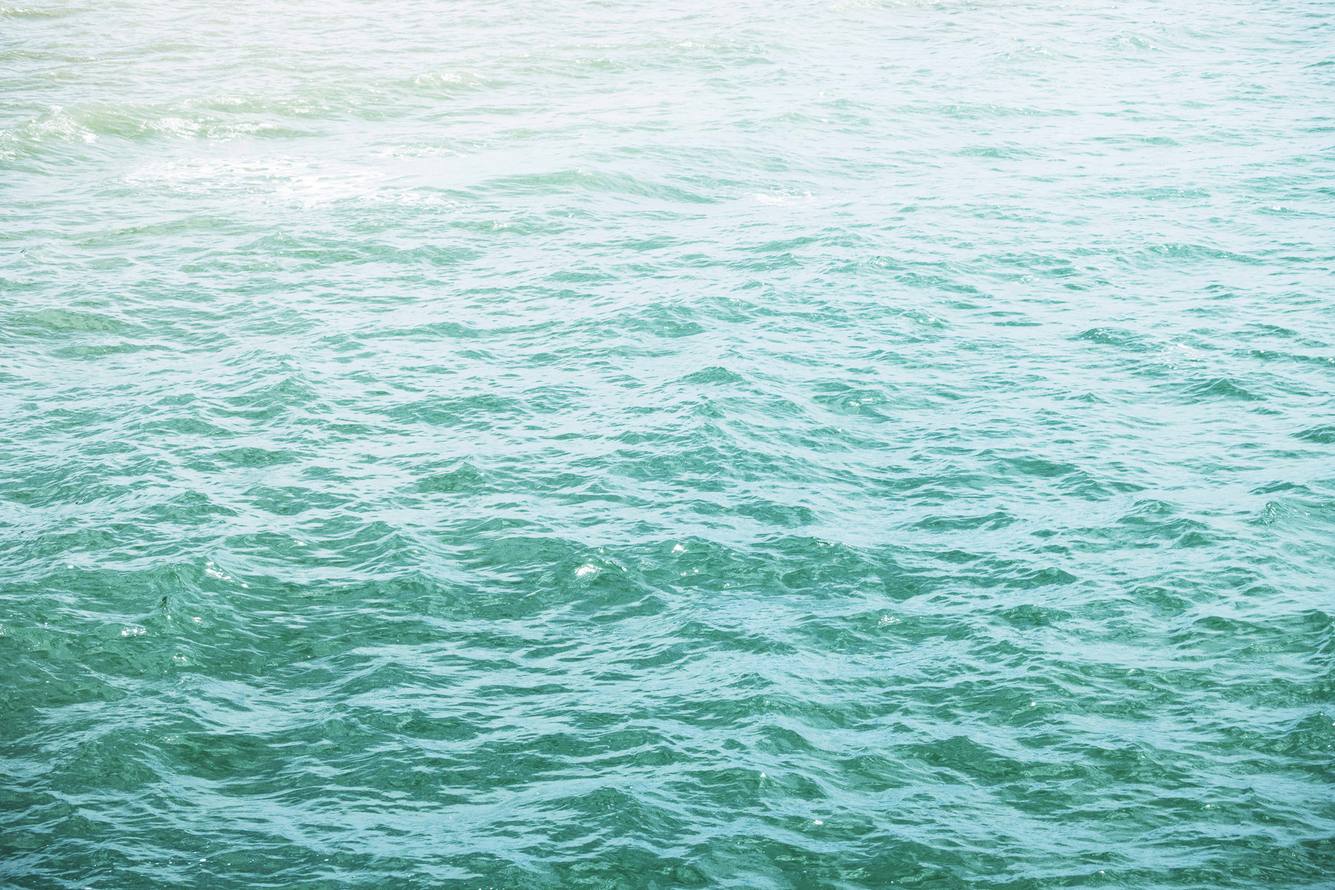
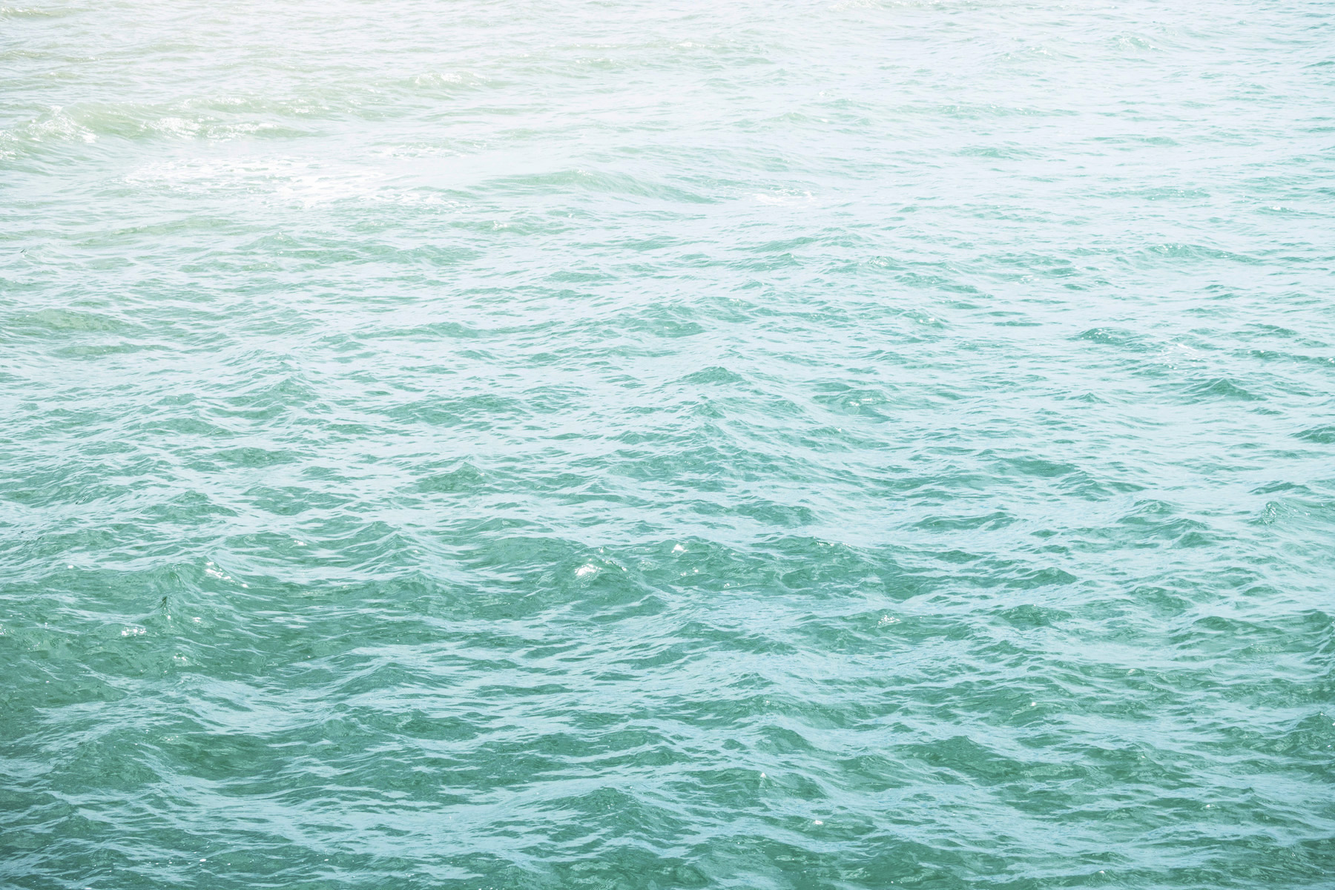
change codes

diff --git a/20260809.html b/20260809.html
@@ -163,20 +163,6 @@ a{
             </figcaption>
             <span class="caption">8</span>
         </div>
-        <div class="example2">
-            <img src="photo/20260809/20260809-9.jpg" alt="写真" width="445.44" height="296.96">
-            <figcaption class="tag">
-                <a href="ht-street.html">(#street)</a> <a href="ht-beige.html">(#beige)</a> <a href="ht-cameradigital.html">(#digitalcamera)</a>
-            </figcaption>
-            <span class="caption">9</span>
-        </div>
-        <div class="example2">
-            <img src="photo/20260809/20260809-10.jpg" alt="写真" width="445.44" height="296.96">
-            <figcaption class="tag">
-                <a href="ht-street.html">(#street)</a> <a href="ht-beige.html">(#beige)</a> <a href="ht-cameradigital.html">(#digitalcamera)</a>
-            </figcaption>
-            <span class="caption">10</span>
-        </div>
 </div>
 
 <ol>
